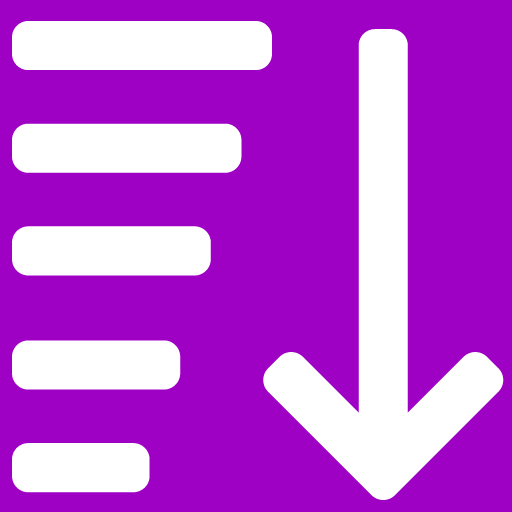
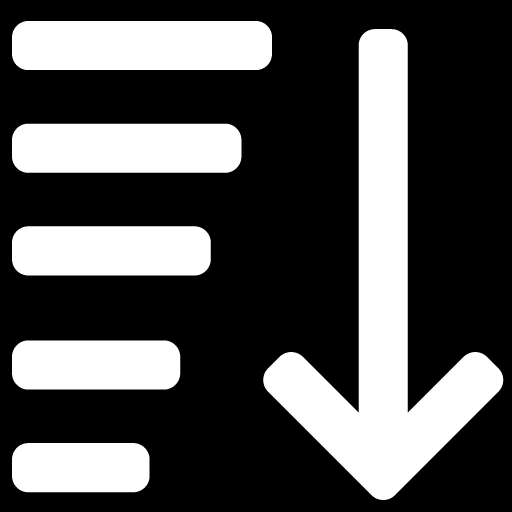
Add files via upload

diff --git a/digging-into-1969/sort/index.html b/digging-into-1969/sort/index.html
@@ -8,15 +8,16 @@
 <link rel="icon" href="../favicon.svg" type="image/svg+xml" />
 <link rel="apple-touch-icon" href="../apple-touch-icon.png" />
 <link rel="manifest" href="../site.webmanifest" />
-<meta name="theme-color" content="#9E00C4" />
+<meta name="theme-color" content="#000000" />
 <link rel="preconnect" href="https://fonts.googleapis.com" />
 <link rel="preconnect" href="https://fonts.gstatic.com" crossorigin />
 <link rel="stylesheet" href="https://fonts.googleapis.com/css2?family=Instrument+Sans:wght@500;600&display=swap" />
 <style>
   :root {
     --ground: #F8F9FA;
-    --bar: #9E00C4;
+    --bar: #000000;
     --on-bar: #FFFFFF;
+    --hi: #000000;
     --card: #FFFFFF;
     --card-2: #F4F5F7;
     --ink: #14171B;
@@ -25,7 +26,7 @@
     --accent: #1DB954;
     --on-accent: #0A0A0A;
     --focus: #2C3FBE;
-    --meter: #D9A8E8;
+    --meter: #C9CED5;
     --row-hover: #F4F5F7;
     --row-on: #E6F6EC;
     --shadow: 0 1px 2px rgba(20,23,27,.06), 0 8px 24px -12px rgba(20,23,27,.18);
@@ -33,6 +34,7 @@
   }
   @media (prefers-color-scheme: dark) {
     :root:not([data-theme="light"]) {
+      --hi: #FFFFFF;
       --ground: #0F1216;
       --card: #171B21;
       --card-2: #1D222A;
@@ -40,7 +42,7 @@
       --muted: #A3ACB8;
       --hair: #333A44;
       --focus: #8AA0FF;
-      --meter: #6A2A80;
+      --meter: #454B55;
       --row-hover: #1D222A;
       --row-on: #12291B;
       --shadow: 0 1px 2px rgba(0,0,0,.4), 0 10px 28px -14px rgba(0,0,0,.7);
@@ -48,6 +50,7 @@
     }
   }
   :root[data-theme="dark"] {
+    --hi: #FFFFFF;
     --ground: #0F1216;
     --card: #171B21;
     --card-2: #1D222A;
@@ -55,7 +58,7 @@
     --muted: #A3ACB8;
     --hair: #333A44;
     --focus: #8AA0FF;
-    --meter: #6A2A80;
+    --meter: #454B55;
     --row-hover: #1D222A;
     --row-on: #12291B;
     --shadow: 0 1px 2px rgba(0,0,0,.4), 0 10px 28px -14px rgba(0,0,0,.7);
@@ -75,6 +78,7 @@
     -webkit-font-smoothing: antialiased;
   }
 
+  .hero { height: 60px; background: #E9E4DC url(../header.jpg) center / cover no-repeat; }
   .topbar { background: var(--bar); }
   .inner, .wrap { max-width: 1240px; margin: 0 auto; padding-left: 24px; padding-right: 24px; }
   .topbar .inner { padding-block: 16px; }
@@ -100,7 +104,7 @@
   }
   .sub { margin: 8px 0 0; color: var(--muted); }
   .sub b { font-weight: 500; }
-  .sub a { color: var(--bar); font-weight: 500; text-decoration: none; }
+  .sub a { color: var(--hi); font-weight: 500; text-decoration: none; }
   .sub a:hover { text-decoration: underline; }
   .counts { display: flex; gap: 22px; margin: 0; font-size: 11px; color: var(--muted); }
   .counts b { display: block; font-size: 18px; font-weight: 500; color: var(--ink); font-variant-numeric: tabular-nums; }
@@ -136,7 +140,7 @@
   th button:hover { color: var(--ink); }
   th[aria-sort] button { color: var(--ink); }
   th .arr { opacity: .35; font-size: 10px; }
-  th[aria-sort] .arr { opacity: 1; color: var(--bar); }
+  th[aria-sort] .arr { opacity: 1; color: var(--hi); }
   th.num button { justify-content: flex-end; }
   th.play { width: 40px; }
 
@@ -161,7 +165,7 @@
   tr.on .pb svg { margin-left: 0; }
 
   td.n { width: 64px; font-size: 11px; color: var(--muted); font-variant-numeric: tabular-nums; }
-  td.round { min-width: 16ch; color: var(--bar); font-variant-numeric: tabular-nums; }
+  td.round { min-width: 16ch; color: var(--hi); font-variant-numeric: tabular-nums; }
   td.song a { color: var(--ink); font-weight: 600; text-decoration: none; }
   td.song a:hover { text-decoration: underline; }
   td.artist { color: var(--muted); }
@@ -170,8 +174,8 @@
   .meter { display: flex; align-items: center; justify-content: flex-end; gap: 10px; }
   .meter span { height: 5px; border-radius: 3px; background: var(--meter); }
   .meter b { width: 2ch; text-align: right; font-weight: 500; font-variant-numeric: tabular-nums; }
-  tr.top .meter span { background: var(--bar); }
-  tr.top .meter b { color: var(--bar); }
+  tr.top .meter span { background: var(--hi); }
+  tr.top .meter b { color: var(--hi); }
 
   :is(a, button):focus-visible { outline: 2px solid var(--focus); outline-offset: 2px; }
 
@@ -200,6 +204,7 @@
 </style>
 </head>
 <body>
+<div class="hero" aria-hidden="true"></div>
 <div class="topbar"><div class="inner"><p class="eyebrow">Music League :: Digging Into 1969</p>
     <nav class="switch" aria-label="Pages"><a href="../">Already on the list?</a><a href="../sort/" aria-current="page">Submissions Sorter</a></nav></div></div>
 
@@ -227,7 +232,7 @@
     </table>
   </div>
 
-  <footer>Votes are the total points a song received in its round; the purple bar marks each round's top scorer. Click a header to sort, click again to flip. Signed into Spotify in this browser, the player plays full tracks; otherwise 30-second previews.</footer>
+  <footer>Votes are the total points a song received in its round; the solid bar marks each round's top scorer. Click a header to sort, click again to flip. Signed into Spotify in this browser, the player plays full tracks; otherwise 30-second previews.</footer>
 </div>
 
 <div class="dock">

diff --git a/digging-into-1969/index.html b/digging-into-1969/index.html
@@ -8,12 +8,16 @@
 <link rel="icon" href="favicon.svg" type="image/svg+xml" />
 <link rel="apple-touch-icon" href="apple-touch-icon.png" />
 <link rel="manifest" href="site.webmanifest" />
-<meta name="theme-color" content="#9E00C4" />
+<link rel="preconnect" href="https://fonts.googleapis.com" />
+<link rel="preconnect" href="https://fonts.gstatic.com" crossorigin />
+<link rel="stylesheet" href="https://fonts.googleapis.com/css2?family=Instrument+Sans:wght@500;600&display=swap" />
+<meta name="theme-color" content="#000000" />
 <style>
   :root {
     --ground: #F8F9FA;
-    --bar: #9E00C4;
+    --bar: #000000;
     --on-bar: #FFFFFF;
+    --hi: #000000;
     --card: #FFFFFF;
     --card-2: #F4F5F7;
     --ink: #14171B;
@@ -32,8 +36,9 @@
   }
   @media (prefers-color-scheme: dark) {
     :root:not([data-theme="light"]) {
+      --hi: #FFFFFF;
       --ground: #0F1216;
-      --bar: #9E00C4;
+      --bar: #000000;
       --on-bar: #FFFFFF;
       --card: #171B21;
       --card-2: #1D222A;
@@ -53,8 +58,9 @@
     }
   }
   :root[data-theme="dark"] {
+    --hi: #FFFFFF;
     --ground: #0F1216;
-    --bar: #9E00C4;
+    --bar: #000000;
     --on-bar: #FFFFFF;
     --card: #171B21;
     --card-2: #1D222A;
@@ -94,16 +100,17 @@
     gap: 26px;
   }
 
+  .hero { height: 60px; background: #E9E4DC url(header.jpg) center / cover no-repeat; }
   .topbar { background: var(--bar); }
   .topbar .inner {
-    max-width: 720px;
+    max-width: 1240px;
     margin: 0 auto;
-    padding: 16px 20px;
+    padding: 16px 24px;
   }
   .eyebrow {
-    font-family: ui-monospace, "Cascadia Mono", "SF Mono", Consolas, monospace;
-    font-size: clamp(15px, 2.6vw, 19px);
-    font-weight: 700;
+    font-family: "Instrument Sans", "Segoe UI", -apple-system, BlinkMacSystemFont, system-ui, sans-serif;
+    font-size: 15px;
+    font-weight: 500;
     letter-spacing: .1em;
     text-transform: uppercase;
     color: var(--on-bar);
@@ -123,7 +130,7 @@
 
   .sub { margin: 12px 0 0; color: var(--muted); }
   .sub b { color: var(--ink); font-weight: 600; }
-  .sub a { color: var(--bar); font-weight: 700; text-decoration: none; }
+  .sub a { color: var(--hi); font-weight: 700; text-decoration: none; }
   .sub a:hover { text-decoration: underline; }
 
   .panel {
@@ -331,6 +338,7 @@
 </style>
 </head>
 <body>
+<div class="hero" aria-hidden="true"></div>
 <div class="topbar"><div class="inner"><p class="eyebrow">Music League :: Digging Into 1969</p>
     <nav class="switch" aria-label="Pages"><a href="./" aria-current="page">Already on the list?</a><a href="sort/">Submissions Sorter</a></nav></div></div>
 
@@ -727,7 +735,7 @@ function ready(n, when) {
   goBtn.disabled = false;
   srcText.innerHTML = "<strong>" + n + " tracks</strong>" + (when ? " · list updated " + when : "");
   document.getElementById("foot").textContent =
-    "The list is built from the league's submissions export. Anything submitted after the last export will not be found here.";
+    "This list is rebuilt weekly by Tom after each round ends. If it looks out of date, nudge him in the ML chat.";
 }
 
 function fmtDate(d) {
